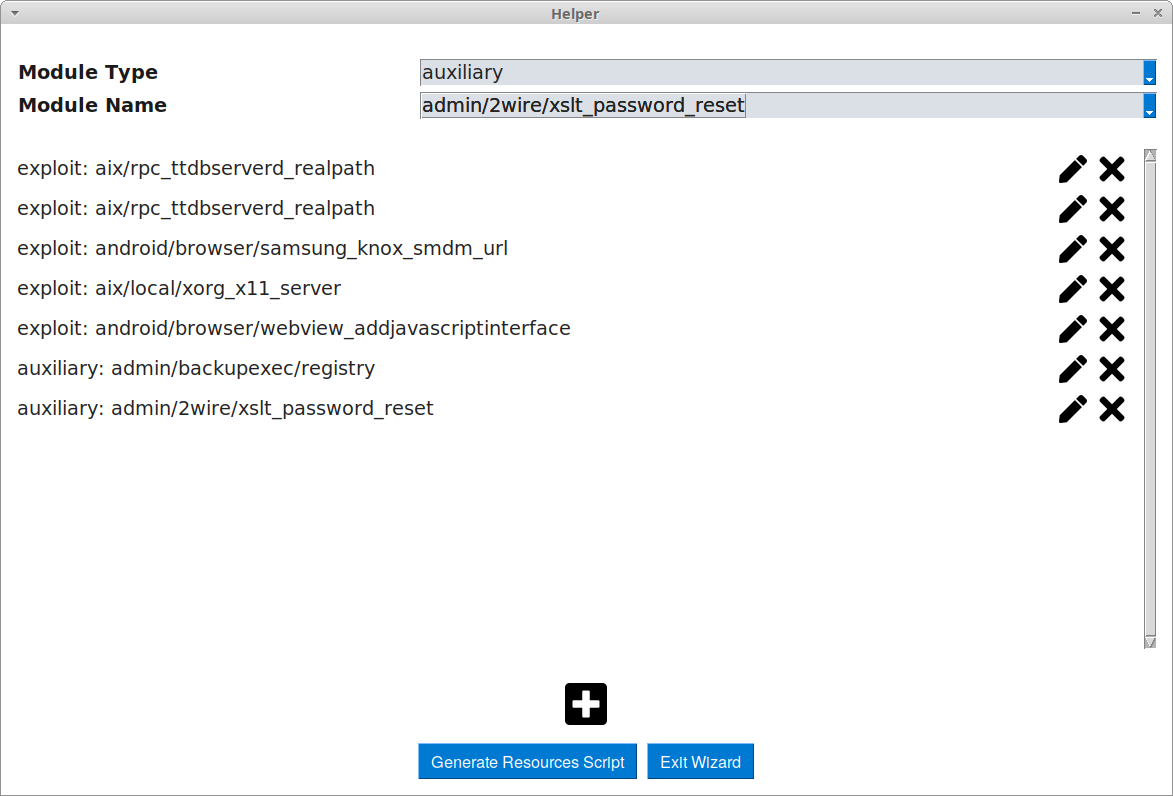
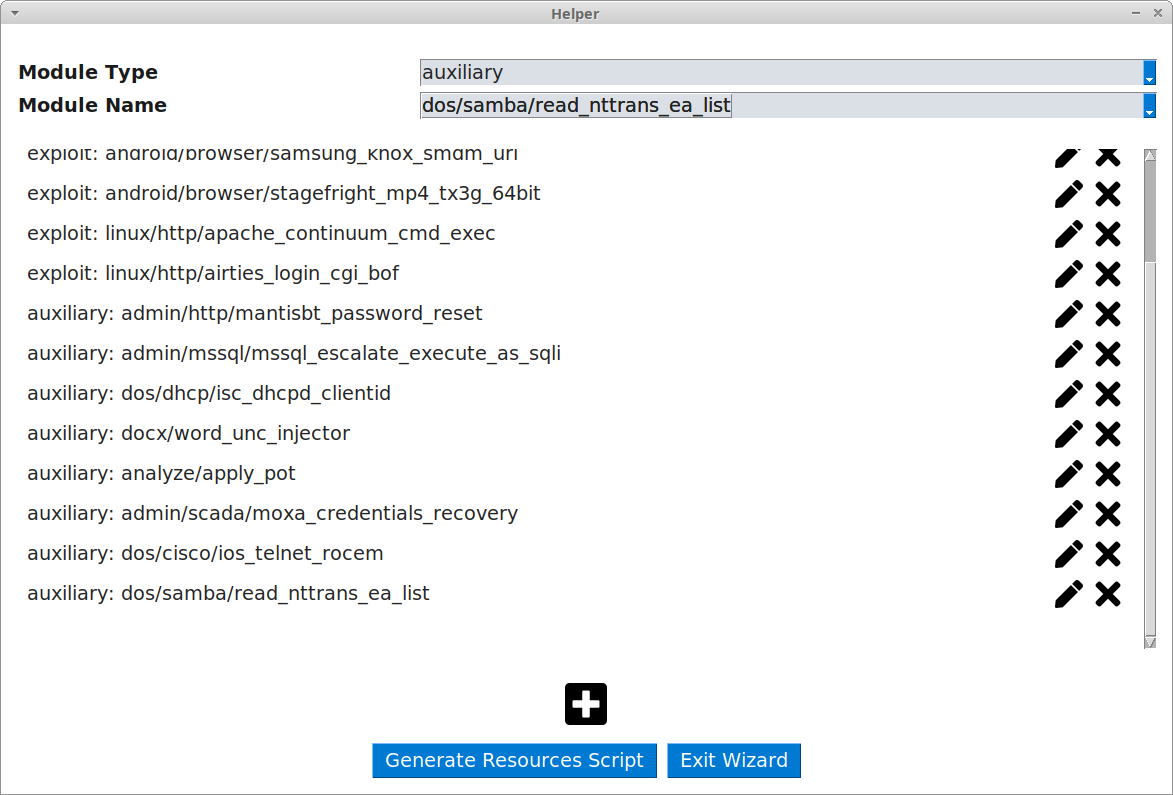
Updated screenshots. Updated buttons font.

diff --git a/autoauditor/gui.py b/autoauditor/gui.py
@@ -291,8 +291,8 @@ def opt_window(msfclient, mtype, mname, mod_idx, current_opts=[]):
                         BUTTON_COLOR, NO_BORDER, wizard._get_option_desc(mod, opt)),
                  sg.InputText(str(opts[opt]), size=TEXT_DESC_SIZE_M, key=KEY_OPT_VAL+str(idx), pad=PAD_IT_T, font=FONT)]], border_width=NO_BORDER, pad=PAD_NO)] for idx, opt in enumerate(opts)], size=OPT_MOD_COLUMN_SIZE, scrollable=scrollable, vertical_scroll_only=True)],
         [sg.Text(NO_TEXT, pad=PAD_NO_TB)],
-        [sg.Button('Accept', key=KEY_OPT_ACCEPT),
-         sg.Button('Cancel', key=KEY_OPT_CANCEL)]
+        [sg.Button('Accept', key=KEY_OPT_ACCEPT, font=FONT),
+         sg.Button('Cancel', key=KEY_OPT_CANCEL, font=FONT)]
     ]
 
     owindow = sg.Window(
@@ -377,7 +377,7 @@ while True:
                     [sg.Text('File {}'.format(vpncf), font=FONT)],
                     [sg.Text('does not exist.', font=FONT)],
                     [sg.Text(NO_TEXT, font=FONTPAD)],
-                    [sg.OK(button_color=BUTTON_COLOR_ERR)]
+                    [sg.OK(button_color=BUTTON_COLOR_ERR, font=FONT)]
                 ], element_justification=CENTER, auto_close=True).read(close=True)
             else:
                 vpncont = vpn.setup_vpn(vpncf)
@@ -391,7 +391,7 @@ while True:
                 [sg.Text('Log file/Log directory', font=FONT)],
                 [sg.Text('does not exist.', font=FONT)],
                 [sg.Text(NO_TEXT, font=FONTPAD)],
-                [sg.OK(button_color=BUTTON_COLOR_ERR)]
+                [sg.OK(button_color=BUTTON_COLOR_ERR, font=FONT)]
             ], element_justification=CENTER, auto_close=True).read(close=True)
         else:
             msfcont = metasploit.start_msfrpcd(ld, ovpn=vpn_cb.enabled)
@@ -404,7 +404,7 @@ while True:
                 [sg.Text('File {}'.format(rc), font=FONT)],
                 [sg.Text('does not exist.', font=FONT)],
                 [sg.Text(NO_TEXT, font=FONTPAD)],
-                [sg.OK(button_color=BUTTON_COLOR_ERR)]
+                [sg.OK(button_color=BUTTON_COLOR_ERR, font=FONT)]
             ], element_justification=CENTER, auto_close=True).read(close=True)
         else:
             metasploit.launch_metasploit(msfclient, rc, lf)
@@ -417,7 +417,7 @@ while True:
                     [sg.Text('File {}'.format(rc), font=FONT)],
                     [sg.Text('does not exist.', font=FONT)],
                     [sg.Text(NO_TEXT, font=FONTPAD)],
-                    [sg.OK(button_color=BUTTON_COLOR_ERR)]
+                    [sg.OK(button_color=BUTTON_COLOR_ERR, font=FONT)]
                 ], element_justification=CENTER, auto_close=True).read(close=True)
             else:
                 info = blockchain.load_config(hc)
@@ -427,7 +427,7 @@ while True:
                         [sg.Text('Blockchain log file', font=FONT)],
                         [sg.Text('does not exist.', font=FONT)],
                         [sg.Text(NO_TEXT, font=FONTPAD)],
-                        [sg.OK(button_color=BUTTON_COLOR_ERR)]
+                        [sg.OK(button_color=BUTTON_COLOR_ERR, font=FONT)]
                     ], element_justification=CENTER, auto_close=True).read(close=True)
                 else:
                     blockchain.store_report(info, lf, ho)
